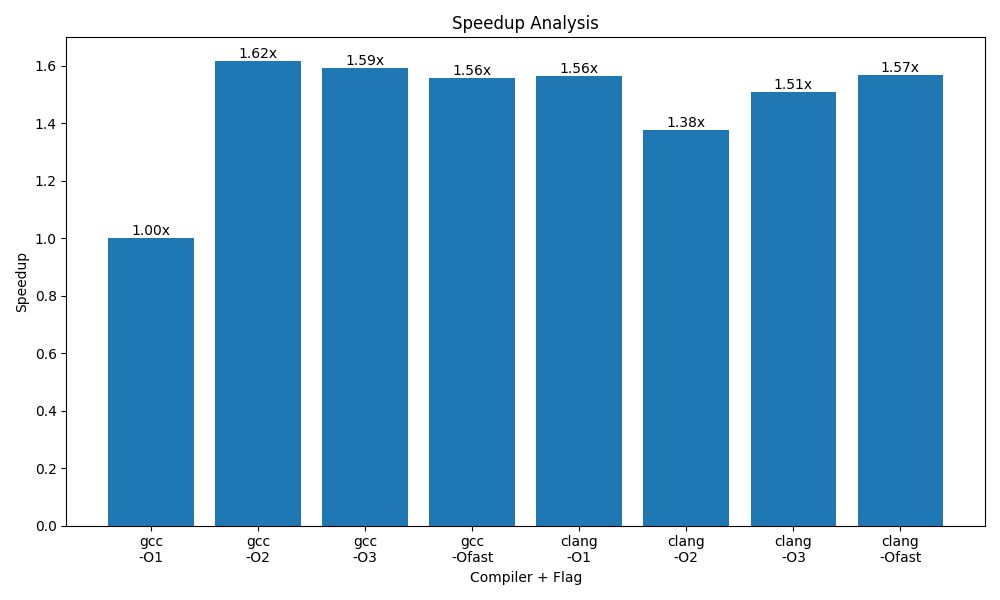
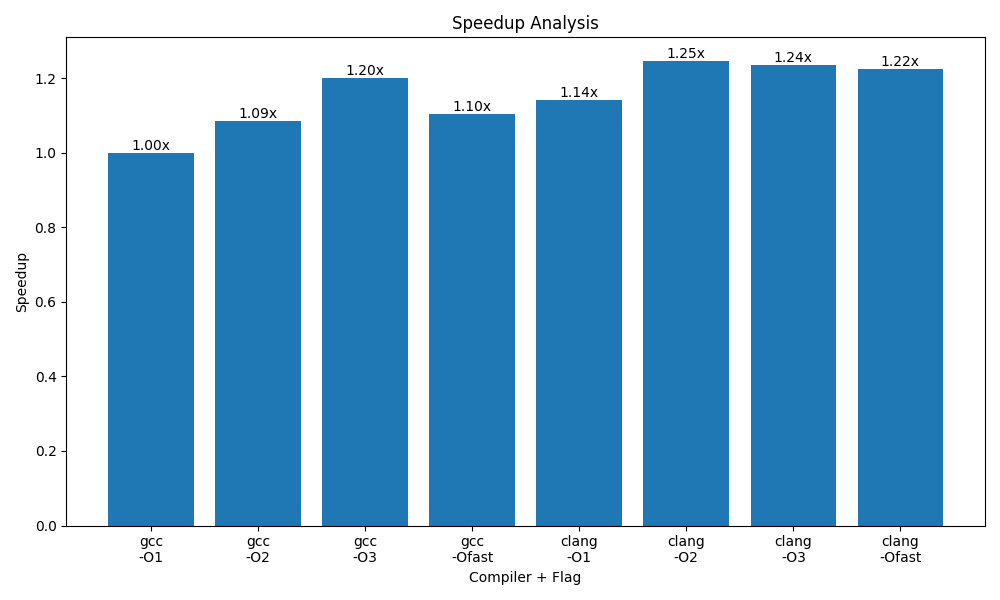
Added PDF report generation

diff --git a/compiler-auto-vectorization-advisor/app/dashboard/report_generator.py b/compiler-auto-vectorization-advisor/app/dashboard/report_generator.py
@@ -1,0 +1,111 @@
+from reportlab.platypus import (
+    SimpleDocTemplate,
+    Paragraph,
+    Spacer
+)
+
+from reportlab.lib.styles import (
+    getSampleStyleSheet
+)
+
+import os
+
+
+class ReportGenerator:
+
+    def __init__(self, analysis, benchmark):
+
+        self.analysis = analysis
+
+        self.benchmark = benchmark
+
+        self.output_path = (
+            "static/reports/"
+            "optimization_report.pdf"
+        )
+
+
+    # --------------------------------
+    # GENERATE PDF REPORT
+    # --------------------------------
+    def generate_pdf(self):
+
+        os.makedirs(
+            "static/reports",
+            exist_ok=True
+        )
+
+        doc = SimpleDocTemplate(
+            self.output_path
+        )
+
+        styles = (
+            getSampleStyleSheet()
+        )
+
+        elements = []
+
+        title = Paragraph(
+            "Compiler Optimization Report",
+            styles['Title']
+        )
+
+        elements.append(title)
+
+        elements.append(
+            Spacer(1, 20)
+        )
+
+        # Analysis Section
+        analysis_title = Paragraph(
+            "Loop Analysis",
+            styles['Heading2']
+        )
+
+        elements.append(
+            analysis_title
+        )
+
+        analysis_text = Paragraph(
+            self.analysis.replace(
+                "\n",
+                "<br/>"
+            ),
+            styles['BodyText']
+        )
+
+        elements.append(
+            analysis_text
+        )
+
+        elements.append(
+            Spacer(1, 20)
+        )
+
+        # Benchmark Section
+        benchmark_title = Paragraph(
+            "Benchmark Results",
+            styles['Heading2']
+        )
+
+        elements.append(
+            benchmark_title
+        )
+
+        benchmark_text = Paragraph(
+            self.benchmark.replace(
+                "\n",
+                "<br/>"
+            ),
+            styles['BodyText']
+        )
+
+        elements.append(
+            benchmark_text
+        )
+
+        doc.build(elements)
+
+        print(
+            "PDF report generated successfully"
+        )

diff --git a/compiler-auto-vectorization-advisor/automation_runner.py b/compiler-auto-vectorization-advisor/automation_runner.py
@@ -1,3 +1,4 @@
+from app.dashboard.report_generator import ReportGenerator
 import os
 
 from app.parser.loop_detector import LoopDetector
@@ -79,3 +80,25 @@ for idx, loop in enumerate(loops, start=1):
 print("\n===================================")
 print("Automation completed successfully")
 print("===================================")
+
+# -----------------------------------
+# GENERATE PDF REPORT
+# -----------------------------------
+
+analysis_report = """
+Loop analysis completed successfully.
+Vectorization opportunities detected.
+"""
+
+benchmark_report = """
+GCC O2 : 1.2 sec
+LLVM O3 : 0.9 sec
+Best Compiler : LLVM
+"""
+
+report = ReportGenerator(
+    analysis_report,
+    benchmark_report
+)
+
+report.generate_pdf()

diff --git a/compiler-auto-vectorization-advisor/main.py b/compiler-auto-vectorization-advisor/main.py
@@ -11,7 +11,7 @@ from app.ML.ml_predictor import MLPredictor
 from app.ML.feature_extractor import FeatureExtractor
 
 
-app = Flask(__name__)
+app = Flask(__name__, template_folder="app/templates", static_folder="static")
 
 # -----------------------------------
 # CONFIGURATION